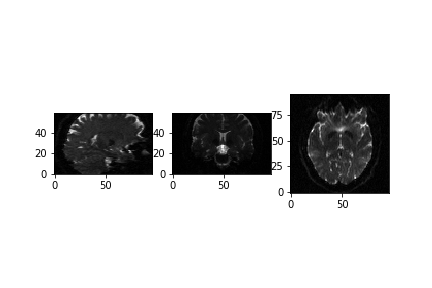
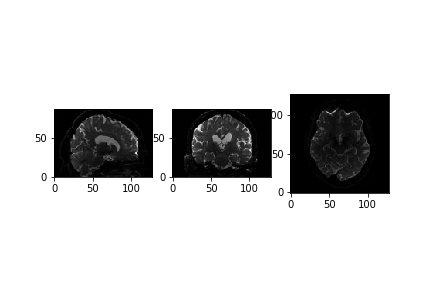
update epi 1 with a single subj from ds000221

diff --git a/episodes/01-introduction_diffusion_data.md b/episodes/01-introduction_diffusion_data.md
@@ -28,28 +28,68 @@ In addition to the acquired diffusion images, two files are collected as part of
 
 In addition to the acquired diffusion images, two files are collected as part of the diffusion dataset. These files correspond to the gradient amplitude (b-values) and directions (b-vectors) of the diffusion measurement and are named with the extensions <code>.bval and <code>.bvec</code> respectively. The b-value is the diffusion-sensitizing factor, and reflects the timing & strength of the gradients used to acquire the diffusion-weighted images. The b-vector corresponds to the direction of the diffusion sensitivity. Together these two files define the diffusion MRI measurement as a set of gradient directions and corresponding amplitudes.
 
-Below is a tree diagram showing the folder structure of a single MR session within ds000030. This was obtained by using the bash command <code>tree<code>.  
+Below is a tree diagram showing the folder structure of a single MR subject and session within ds000221. This was obtained by using the bash command <code>tree<code>.  
 
 ~~~
-tree '../data/ds000030'
+tree '../data/ds000221'
 ~~~
 {: .language-bash}
 
 ~~~
-../data/ds000030
+../data/ds000221
+├── .bidsignore
 ├── CHANGES
-├── code
 ├── dataset_description.json
+├── participants.tsv
 ├── README
-└── sub-10788/
-    ├── anat
-    │   ├── sub-10788_T1w.json
-    │   └── sub-10788_T1w.nii.gz
-    └── dwi
-        ├── sub-10788_dwi.bval
-        │── sub-10788_dwi.bvec
-        │── sub-10788_dwi.json
-        └── sub-10788_dwi.nii.gz
+├── derivatives/
+├── sub-010001/
+└── sub-010002/
+    ├── ses-01/
+    │    ├── anat
+    │    │    ├── sub-010002_ses-01_acq-lowres_FLAIR.json
+    │    │    ├── sub-010002_ses-01_acq-lowres_FLAIR.nii.gz
+    │    │    ├── sub-010002_ses-01_acq-mp2rage_defacemask.nii.gz
+    │    │    ├── sub-010002_ses-01_acq-mp2rage_T1map.nii.gz
+    │    │    ├── sub-010002_ses-01_acq-mp2rage_T1w.nii.gz
+    │    │    ├── sub-010002_ses-01_inv-1_mp2rage.json
+    │    │    ├── sub-010002_ses-01_inv-1_mp2rage.nii.gz
+    │    │    ├── sub-010002_ses-01_inv-2_mp2rage.json
+    │    │    ├── sub-010002_ses-01_inv-2_mp2rage.nii.gz
+    │    │    ├── sub-010002_ses-01_T2w.json
+    │    │    └── sub-010002_ses-01_T2w.nii.gz
+    │    ├── dwi
+    │    │    ├── sub-010002_ses-01_dwi.bval
+    │    │    │── sub-010002_ses-01_dwi.bvec
+    │    │    │── sub-010002_ses-01_dwi.json
+    │    │    └── sub-010002_ses-01_dwi.nii.gz
+    │    ├── fmap
+    │    │    ├── sub-010002_ses-01_acq-GEfmap_run-01_magnitude1.json
+    │    │    ├── sub-010002_ses-01_acq-GEfmap_run-01_magnitude1.nii.gz
+    │    │    ├── sub-010002_ses-01_acq-GEfmap_run-01_magnitude2.json
+    │    │    ├── sub-010002_ses-01_acq-GEfmap_run-01_magnitude2.nii.gz
+    │    │    ├── sub-010002_ses-01_acq-GEfmap_run-01_phasediff.json
+    │    │    ├── sub-010002_ses-01_acq-GEfmap_run-01_phasediff.nii.gz
+    │    │    ├── sub-010002_ses-01_acq-SEfmapBOLDpost_dir-AP_epi.json
+    │    │    ├── sub-010002_ses-01_acq-SEfmapBOLDpost_dir-AP_epi.nii.gz
+    │    │    ├── sub-010002_ses-01_acq-SEfmapBOLDpost_dir-PA_epi.json
+    │    │    ├── sub-010002_ses-01_acq-SEfmapBOLDpost_dir-PA_epi.nii.gz  
+    │    │    ├── sub-010002_ses-01_acq-sefmapBOLDpre_dir-AP_epi.json
+    │    │    ├── sub-010002_ses-01_acq-sefmapBOLDpre_dir-AP_epi.nii.gz
+    │    │    ├── sub-010002_ses-01_acq-sefmapBOLDpre_dir-PA_epi.json
+    │    │    ├── sub-010002_ses-01_acq-sefmapBOLDpre_dir-PA_epi.nii.gz
+    │    │    ├── sub-010002_ses-01_acq-SEfmapBOLDpost_dir-AP_epi.json
+    │    │    ├── sub-010002_ses-01_acq-SEfmapBOLDpost_dir-AP_epi.nii.gz
+    │    │    ├── sub-010002_ses-01_acq-SEfmapBOLDpost_dir-PA_epi.json
+    │    │    ├── sub-010002_ses-01_acq-SEfmapBOLDpost_dir-PA_epi.nii.gz  
+    │    │    ├── sub-010002_ses-01_acq-SEfmapDWI_dir-AP_epi.json
+    │    │    ├── sub-010002_ses-01_acq-SEfmapDWI_dir-AP_epi.nii.gz
+    │    │    ├── sub-010002_ses-01_acq-SEfmapDWI_dir-PA_epi.json
+    │    │    └── sub-010002_ses-01_acq-SEfmapDWI_dir-PA_epi.nii.gz
+    │    └── fmap  
+    │    │    ├── sub-010002_ses-01_task-rest_acq-AP_run-01_bold.json
+    │    │    └── sub-010002_ses-01_task-rest_acq-AP_run-01_bold.nii.gz
+    └── ses-02/
 ~~~
 {: .output}
 
@@ -62,17 +102,35 @@ Lets first pull the metadata from its associated JSON file using the <code>get_m
 ~~~
 from bids.layout import BIDSLayout
 
-layout = BIDSLayout("../../data/ds000030", validate=False)
+layout = BIDSLayout("../../data/ds000221", validate=False)
 ~~~
 {: .language-python}
 
 Now that we have a layout object, we can work with a BIDS dataset! Lets extract the metadata. from the dataset.
 
 ~~~
-dwi = layout.get(subject='10788', suffix='dwi', extension='nii.gz', return_type='file')[0]
+dwi = layout.get(subject='010002', suffix='dwi', extension='nii.gz', return_type='file')[0]
 layout.get_metadata(dwi)
 ~~~
 {: .language-python}
+
+~~~
+{'EchoTime': 0.08,
+ 'EffectiveEchoSpacing': 0.000390001,
+ 'FlipAngle': 90,
+ 'ImageType': ['ORIGINAL', 'PRIMARY', 'DIFFUSION', 'NON'],
+ 'MagneticFieldStrength': 3,
+ 'Manufacturer': 'Siemens',
+ 'ManufacturersModelName': 'Verio',
+ 'MultibandAccelerationFactor': 2,
+ 'ParallelAcquisitionTechnique': 'GRAPPA',
+ 'ParallelReductionFactorInPlane': 2,
+ 'PartialFourier': '7/8',
+ 'PhaseEncodingDirection': 'j-',
+ 'RepetitionTime': 7,
+ 'TotalReadoutTime': 0.04914}
+~~~
+{: .output}
 
 ## Diffusion Imaging in Python ([dipy](https://dipy.org))
 
@@ -96,9 +154,9 @@ We can install it by entering the following in a terminal <code>pip install dipy
 <code>Dipy</code> has a built-in function that allows us to read in <code>bval</code> and <code>bvec</code> files named <code>read_bvals_bvecs</code> under the <code>dipy.io.gradients</code> module. Let's first grab the path to our gradient directions and amplitude files and load them into memory.
 
 ~~~
-dwi = layout.get(subject='10788', suffix='dwi', extension='.nii.gz', return_type='file')[0]
-bvec = layout.get(subject='10788', suffix='dwi', extension='bvec', return_type='file')[0]
-bval = layout.get(subject='10788', suffix='dwi', extension='bval', return_type='file')[0]
+dwi = layout.get(subject='010002', suffix='dwi', extension='.nii.gz', return_type='file')[0]
+bvec = layout.get(subject='010002', suffix='dwi', extension='bvec', return_type='file')[0]
+bval = layout.get(subject='010002', suffix='dwi', extension='bval', return_type='file')[0]
 ~~~
 {: .language-python}
 
@@ -117,7 +175,7 @@ data.shape
 {: .language-python}
 
 ~~~
-(96, 96, 60, 65)
+(128, 128, 88, 67)
 ~~~
 {: .output}
 
@@ -172,70 +230,66 @@ gtab.bvecs[~gtab.b0s_mask]
 {: .language-python}
 
 ~~~
-array([[-9.99984e-01,  4.03613e-03,  4.03613e-03],
-       [-9.92980e-04, -9.99987e-01,  4.98886e-03],
-       [-2.48897e-02,  6.53243e-01, -7.56739e-01],
-       [-5.89518e-01,  7.69236e-01,  2.46462e-01],
-       [ 2.35626e-01,  5.28739e-01,  8.15423e-01],
-       [ 8.93067e-01,  2.63666e-01,  3.64570e-01],
-       [ 7.97398e-01,  1.33552e-01, -5.88489e-01],
-       [ 2.32919e-01,  9.31812e-01, -2.78344e-01],
-       [ 9.36380e-01,  1.44036e-01, -3.20072e-01],
-       [-5.04032e-01,  8.46814e-01, -1.69873e-01],
-       [-3.44841e-01,  8.50410e-01, -3.97351e-01],
-       [-4.55850e-01,  6.35469e-01, -6.23202e-01],
-       [ 4.87386e-01,  3.93024e-01,  7.79735e-01],
-       [-6.16792e-01,  6.76545e-01, -4.02310e-01],
-       [ 5.77851e-01,  1.09487e-01, -8.08765e-01],
-       [ 8.25555e-01,  5.24662e-01,  2.07818e-01],
-       [ 8.94898e-01, -4.48150e-02,  4.44016e-01],
-       [-2.89332e-01,  5.45724e-01, -7.86430e-01],
-       [-1.15014e-01,  9.64050e-01, -2.39541e-01],
-       [ 8.00058e-01, -4.08056e-01, -4.39770e-01],
-       [ 5.11970e-01,  8.42290e-01, -1.68625e-01],
-       [ 7.89764e-01, -1.57178e-01, -5.92932e-01],
-       [ 9.49115e-01, -2.37601e-01, -2.06705e-01],
-       [ 2.32032e-01,  7.86655e-01, -5.72132e-01],
-       [ 1.96515e-02,  1.91844e-01, -9.81229e-01],
-       [-2.15961e-01,  9.57087e-01,  1.93247e-01],
-       [ 7.72435e-01, -6.07408e-01, -1.85471e-01],
-       [-1.59879e-01,  3.59797e-01, -9.19231e-01],
-       [-1.46103e-01,  7.34950e-01,  6.62195e-01],
-       [ 8.87180e-01,  4.21444e-01, -1.87872e-01],
-       [-5.62338e-01,  2.36544e-01,  7.92353e-01],
-       [-3.80669e-01,  1.46788e-01, -9.12987e-01],
-       [ 3.05803e-01,  2.02751e-01, -9.30256e-01],
-       [ 3.32094e-01,  1.33876e-01,  9.33697e-01],
-       [ 9.62206e-01,  2.69443e-01,  3.95029e-02],
-       [ 9.59295e-01, -2.09888e-01,  1.88943e-01],
-       [-4.50964e-01,  8.90337e-01,  6.27015e-02],
-       [ 7.71192e-01, -6.31175e-01,  8.29533e-02],
-       [-7.09223e-01, -4.12894e-01,  5.71421e-01],
-       [-6.94205e-01,  2.78961e-02, -7.19236e-01],
-       [ 6.81181e-01,  5.33350e-01,  5.01528e-01],
-       [-1.40978e-01, -7.29050e-01, -6.69784e-01],
-       [ 7.40351e-01, -3.93222e-01,  5.45212e-01],
-       [-1.01944e-01,  8.25404e-01, -5.55261e-01],
-       [ 5.83509e-01, -6.00385e-01, -5.46859e-01],
-       [ 8.66669e-02,  3.39104e-01,  9.36748e-01],
-       [ 5.50506e-01,  7.95484e-01,  2.53276e-01],
-       [ 8.37371e-01, -4.62163e-01,  2.91916e-01],
-       [-3.62527e-01,  5.65304e-01,  7.40949e-01],
-       [-1.83461e-01,  3.96756e-01,  8.99404e-01],
-       [-7.18319e-01, -6.95701e-01, -4.24514e-03],
-       [ 4.31996e-01,  6.86464e-01,  5.84933e-01],
-       [ 5.00977e-01,  6.94308e-01, -5.16680e-01],
-       [ 1.69597e-01,  5.13550e-01, -8.41132e-01],
-       [ 4.63360e-01,  4.27481e-01, -7.76246e-01],
-       [ 3.84024e-01, -8.12297e-01, -4.38975e-01],
-       [ 7.13857e-01,  2.51359e-01,  6.53626e-01],
-       [ 2.58398e-01,  8.87277e-01,  3.82061e-01],
-       [-9.28270e-04,  8.02399e-02,  9.96775e-01],
-       [-3.63633e-02,  9.04616e-01,  4.24675e-01],
-       [-5.70681e-01,  3.07326e-01, -7.61495e-01],
-       [-2.82028e-01,  1.48741e-01,  9.47806e-01],
-       [ 7.19926e-01,  6.12166e-01, -3.27047e-01],
-       [ 2.65067e-01,  9.60908e-01,  7.99761e-02]])
+array([[ 0.0480948 , -0.518981  ,  0.853432  ],
+       [ 0.980937  , -0.0827268 , -0.175836  ],
+       [-0.24275   , -0.355443  , -0.902625  ],
+       [-0.292642  , -0.878897  ,  0.376696  ],
+       [ 0.085518  , -0.362038  , -0.928232  ],
+       [ 0.470646  , -0.695075  ,  0.543473  ],
+       [-0.865701  , -0.485398  ,  0.122274  ],
+       [ 0.226775  , -0.23832   ,  0.944339  ],
+       [ 0.334443  , -0.89435   , -0.29713   ],
+       [ 0.727534  ,  0.0823542 ,  0.681111  ],
+       [-0.625823  ,  0.126479  ,  0.769642  ],
+       [ 0.353667  , -0.886595  ,  0.298111  ],
+       [-0.853084  , -0.472587  , -0.221153  ],
+       [ 0.516586  , -0.856143  , -0.0125875 ],
+       [-0.766369  , -0.458916  ,  0.449527  ],
+       [-0.125754  , -0.637058  , -0.760489  ],
+       [-0.149251  , -0.743085  ,  0.652341  ],
+       [ 0.937341  , -0.348404  , -0.00268246],
+       [-0.124163  , -0.219376  ,  0.967708  ],
+       [-0.36458   , -0.906103  , -0.214613  ],
+       [ 0.579767  , -0.204866  ,  0.788606  ],
+       [ 0.445586  , -0.692181  , -0.567749  ],
+       [-0.905294  , -0.174158  , -0.387442  ],
+       [-0.282606  , -0.482101  ,  0.829284  ],
+       [-0.731609  , -0.431568  , -0.527729  ],
+       [ 0.676757  , -0.438047  , -0.591705  ],
+       [ 0.171374  , -0.758177  ,  0.629125  ],
+       [-0.59121   , -0.711294  , -0.380173  ],
+       [-0.46017   , -0.155292  ,  0.874144  ],
+       [ 0.845645  , -0.162694  ,  0.508345  ],
+       [-0.130717  , -0.98886   ,  0.0712005 ],
+       [ 0.975624  , -0.0906642 ,  0.199845  ],
+       [-0.288147  ,  0.100936  ,  0.952252  ],
+       [ 0.655193  , -0.70285   ,  0.276989  ],
+       [-0.442479  , -0.607006  , -0.660118  ],
+       [-0.471845  , -0.674107  ,  0.56828   ],
+       [ 0.638596  , -0.702848  , -0.313369  ],
+       [-0.642432  , -0.712214  ,  0.2829    ],
+       [ 0.850936  , -0.431779  ,  0.299125  ],
+       [-0.240808  , -0.830023  , -0.503063  ],
+       [-0.578162  , -0.401657  ,  0.710211  ],
+       [ 0.100487  , -0.838741  , -0.535178  ],
+       [-0.924592  , -0.196278  ,  0.326504  ],
+       [-0.0210952 , -0.967749  , -0.251032  ],
+       [-0.764669  , -0.142405  ,  0.628492  ],
+       [ 0.197294  , -0.980191  ,  0.0173175 ],
+       [ 0.405727  ,  0.0420623 ,  0.913026  ],
+       [ 0.859032  , -0.144763  , -0.491028  ],
+       [ 0.380277  , -0.486027  ,  0.786872  ],
+       [-0.6891    , -0.721525  , -0.0674049 ],
+       [ 0.430722  , -0.388461  , -0.814602  ],
+       [ 0.0366712 , -0.92944   ,  0.367147  ],
+       [-0.540564  , -0.318621  , -0.778634  ],
+       [ 0.775224  , -0.631369  , -0.0200052 ],
+       [ 0.0646129 ,  0.0600214 ,  0.996104  ],
+       [-0.978577  , -0.203636  , -0.0303294 ],
+       [ 0.199971  , -0.618334  , -0.760049  ],
+       [ 0.678143  , -0.446978  ,  0.583381  ],
+       [-0.448761  , -0.888954  ,  0.0915084 ],
+       [ 0.849148  , -0.426713  , -0.311228  ]])
 ~~~
 {: .output}
 
@@ -248,31 +302,31 @@ gtab.b0s_mask
 
 ~~~
 array([ True, False, False, False, False, False, False, False, False,
+       False, False,  True, False, False, False, False, False, False,
+       False, False, False, False,  True, False, False, False, False,
+       False, False, False, False, False, False,  True, False, False,
+       False, False, False, False, False, False, False, False,  True,
        False, False, False, False, False, False, False, False, False,
-       False, False, False, False, False, False, False, False, False,
-       False, False, False, False, False, False, False, False, False,
-       False, False, False, False, False, False, False, False, False,
-       False, False, False, False, False, False, False, False, False,
-       False, False, False, False, False, False, False, False, False,
-       False, False])
+       False,  True, False, False, False, False, False, False, False,
+       False, False, False,  True])
 ~~~
 {: .output}
 
-In the next few notebooks, we will talk more about preprocessing the diffusion weighted images and reconstructing the Tensor model
+In the next few notebooks, we will talk more about preprocessing the diffusion weighted images, reconstructing the diffusion tensor model, and reconstruction axonal trajectories via tractography.
 
 > ## Exercise 1
 > 1. Get a list of **all** diffusion data in Nifti file format
-> 2. Get the metadata for the diffusion associated with subject 10788
+> 2. Get the metadata for the diffusion associated with subject 010016.
 > > ## Solution
-> > ## *All the diffusion data*
+> > ## *All the diffusion data for subject 010016*
 > > ~~~
-> > dwi_data = layout.get('suffix=dwi', extension='nii.gz', return_type='file')
+> > dwi_data = layout.get(suffix=dwi', extension='nii.gz', return_type='file')
 > > ~~~
 > > {: .language-python}
 > >
-> > ## *Metadata for subject 10788*
+> > ## *Metadata for subject 010016*
 > > ~~~
-> > dwi = layout.get(subject='10788', suffix='dwi', extension='nii.gz', return_type='file')[0]
+> > dwi = layout.get(subject='010016', suffix='dwi', extension='nii.gz', return_type='file')[0]
 > > layout.get_metadata(dwi)
 > > ~~~
 > > {: .language-python}
